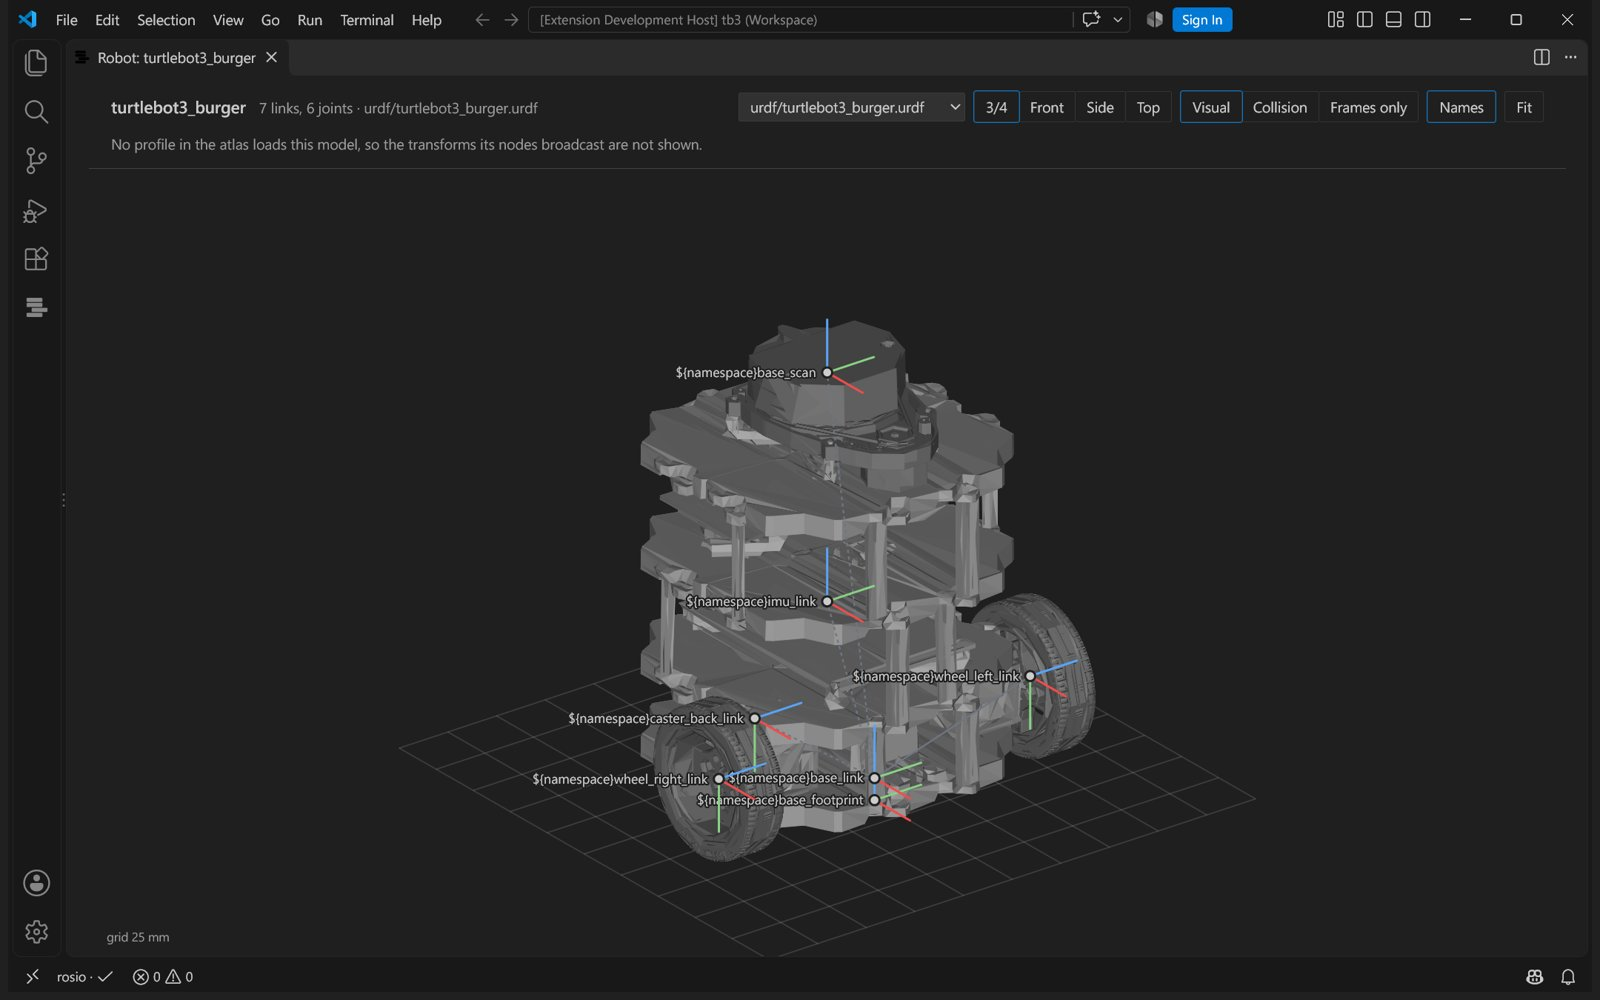
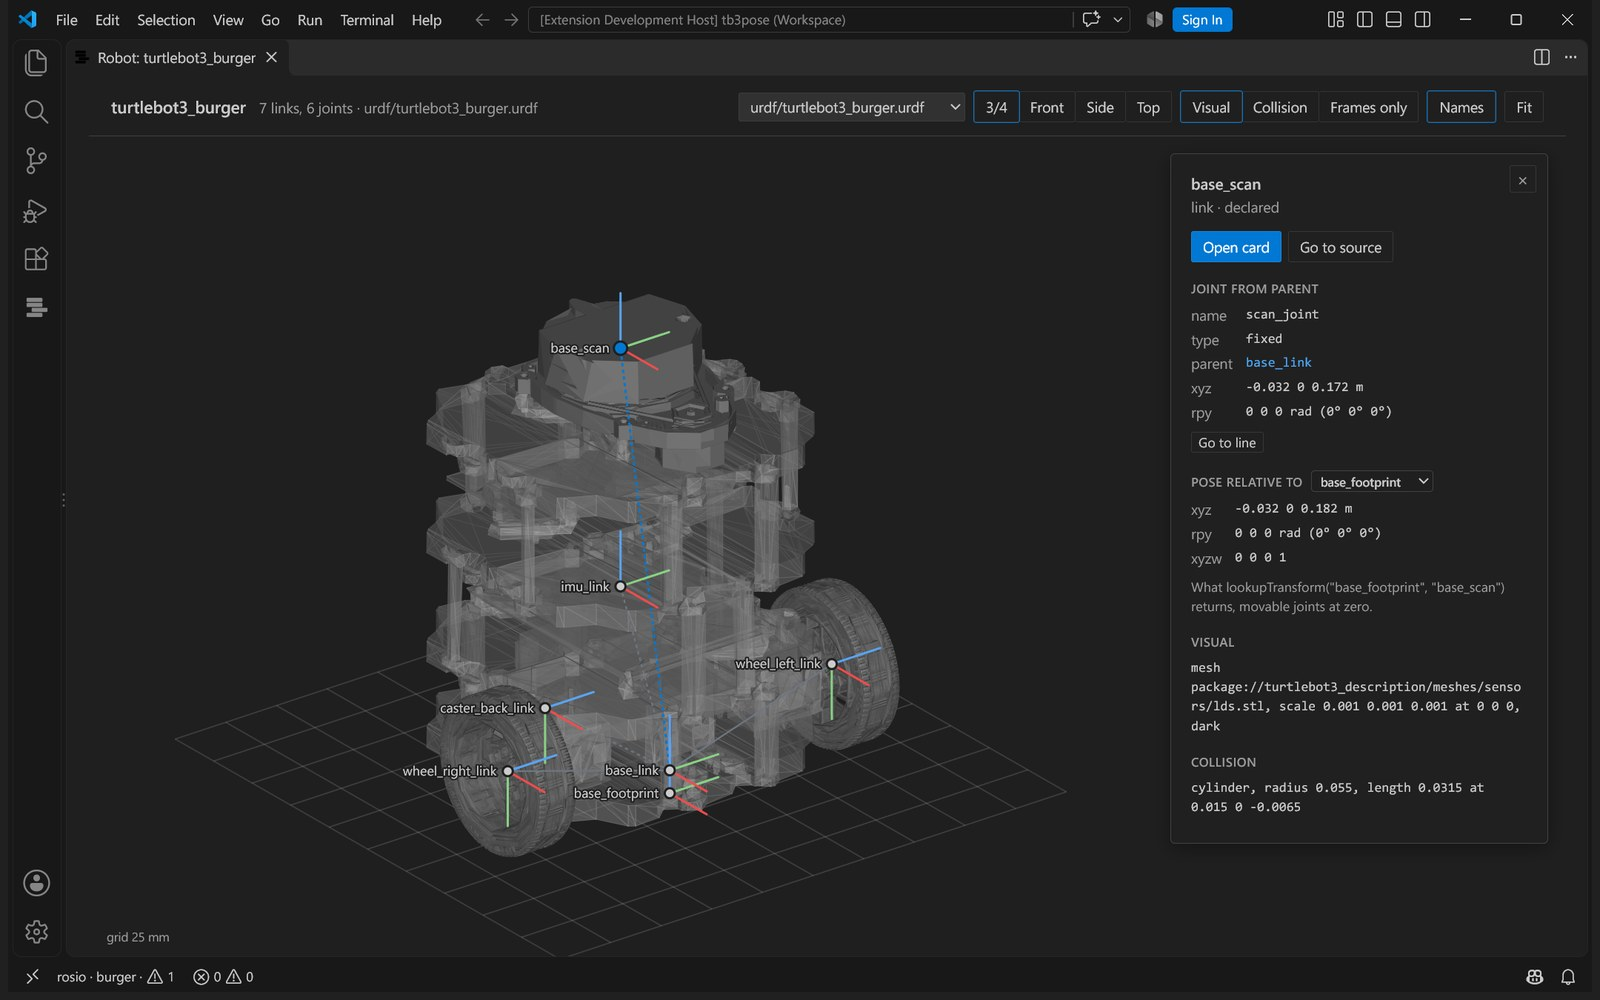
robot view screenshot re-shot on a profile that loads the model, with a link's pose; captions name the pose

diff --git a/site/index.html b/site/index.html
@@ -193,7 +193,7 @@ next: param_chain for one parameter value, drift for the findings, explain for o
     <figure><img src="assets/vscode-parameters.jpg" width="1600" height="1000" loading="lazy" alt="The parameters view with the winning value and every line it overrides"><figcaption><b>Parameters.</b> The value that wins and every line it beats.</figcaption></figure>
     <figure><img src="assets/vscode-qos.jpg" width="1600" height="1000" loading="lazy" alt="A QoS mismatch shown on the line that creates the subscription"><figcaption><b>Code lens.</b> Who else is on this topic, and whether the QoS matches.</figcaption></figure>
     <figure><img src="assets/vscode-launch.jpg" width="1600" height="1000" loading="lazy" alt="The launch view listing what each profile starts"><figcaption><b>Launch.</b> What each profile starts, and what a false condition keeps from starting.</figcaption></figure>
-    <figure class="wide"><img src="assets/vscode-robot.jpg" width="1600" height="1000" loading="lazy" alt="TurtleBot3 Burger drawn from its URDF and STL meshes, with the axes of every link"><figcaption><b>Robot model.</b> The URDF where its joints put each link, drawn from the meshes it names. Click a link for its joint as the file states it.</figcaption></figure>
+    <figure class="wide"><img src="assets/vscode-robot.jpg" width="1600" height="1000" loading="lazy" alt="TurtleBot3 Burger drawn from its URDF and STL meshes, with the lidar link selected and its pose relative to base_footprint"><figcaption><b>Robot model.</b> The URDF where its joints put each link, drawn from the meshes it names. Click a link for its joint as the file states it and its pose relative to any other frame.</figcaption></figure>
   </div>
 </section>
 

diff --git a/site/index.src.html b/site/index.src.html
@@ -135,7 +135,7 @@
     <figure><img src="assets/vscode-parameters.jpg" width="1600" height="1000" loading="lazy" alt="The parameters view with the winning value and every line it overrides"><figcaption><b>Parameters.</b> The value that wins and every line it beats.</figcaption></figure>
     <figure><img src="assets/vscode-qos.jpg" width="1600" height="1000" loading="lazy" alt="A QoS mismatch shown on the line that creates the subscription"><figcaption><b>Code lens.</b> Who else is on this topic, and whether the QoS matches.</figcaption></figure>
     <figure><img src="assets/vscode-launch.jpg" width="1600" height="1000" loading="lazy" alt="The launch view listing what each profile starts"><figcaption><b>Launch.</b> What each profile starts, and what a false condition keeps from starting.</figcaption></figure>
-    <figure class="wide"><img src="assets/vscode-robot.jpg" width="1600" height="1000" loading="lazy" alt="TurtleBot3 Burger drawn from its URDF and STL meshes, with the axes of every link"><figcaption><b>Robot model.</b> The URDF where its joints put each link, drawn from the meshes it names. Click a link for its joint as the file states it.</figcaption></figure>
+    <figure class="wide"><img src="assets/vscode-robot.jpg" width="1600" height="1000" loading="lazy" alt="TurtleBot3 Burger drawn from its URDF and STL meshes, with the lidar link selected and its pose relative to base_footprint"><figcaption><b>Robot model.</b> The URDF where its joints put each link, drawn from the meshes it names. Click a link for its joint as the file states it and its pose relative to any other frame.</figcaption></figure>
   </div>
 </section>
 

diff --git a/editors/vscode/README.md b/editors/vscode/README.md
@@ -41,8 +41,8 @@ tree of each robot model, with the joint behind every frame.
 ![The Launch and Frames views next to the launch file](https://raw.githubusercontent.com/sa1ntsinner/rosio/main/docs/media/vscode-launch.jpg)
 
 Show the robot model draws a URDF where its joints put each link, with the visual or collision
-shapes and the STL and OBJ meshes it names. Click a link for its joint as the file states it and
-the line to edit.
+shapes and the STL and OBJ meshes it names. Click a link for its joint as the file states it, the line to
+edit, and its pose relative to any other frame of the model.
 
 ![TurtleBot3 Burger in the robot model view](https://raw.githubusercontent.com/sa1ntsinner/rosio/main/docs/media/vscode-robot.jpg)
 
